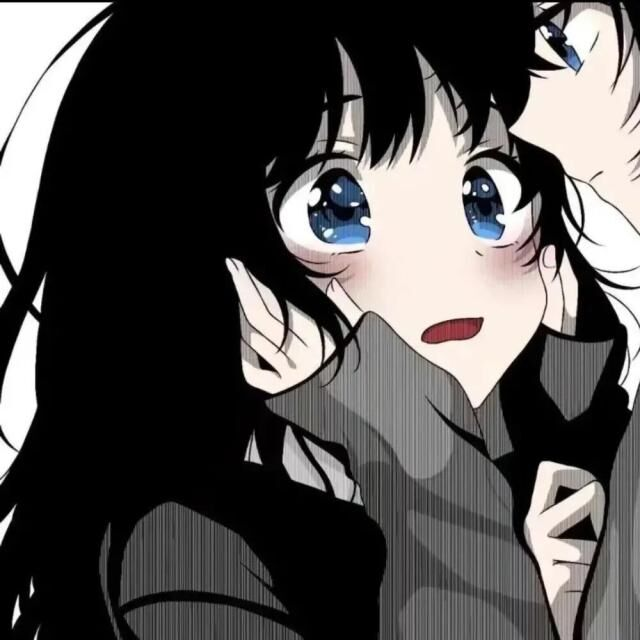
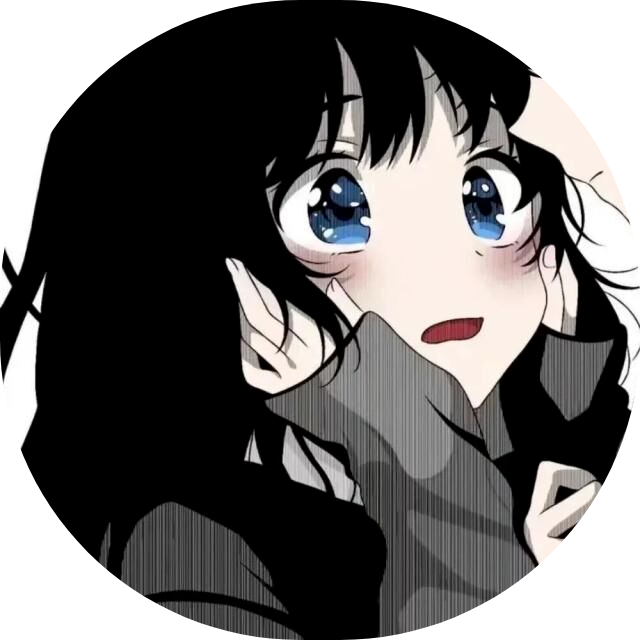
Site updated: 2023-02-02 13:55:53

diff --git a/css/main.css b/css/main.css
@@ -1141,6 +1141,7 @@ pre .javascript .function {
   margin: 0 auto;
   max-width: 120px;
   padding: 2px;
+  border-radius: 50%;
 }
 .site-author-name {
   color: var(--text-color);
@@ -1168,7 +1169,7 @@ pre .javascript .function {
 }
 .links-of-author a::before,
 .links-of-author span.exturl::before {
-  background: #9a32a7;
+  background: #8a0f6b;
   border-radius: 50%;
   content: ' ';
   display: inline-block;
